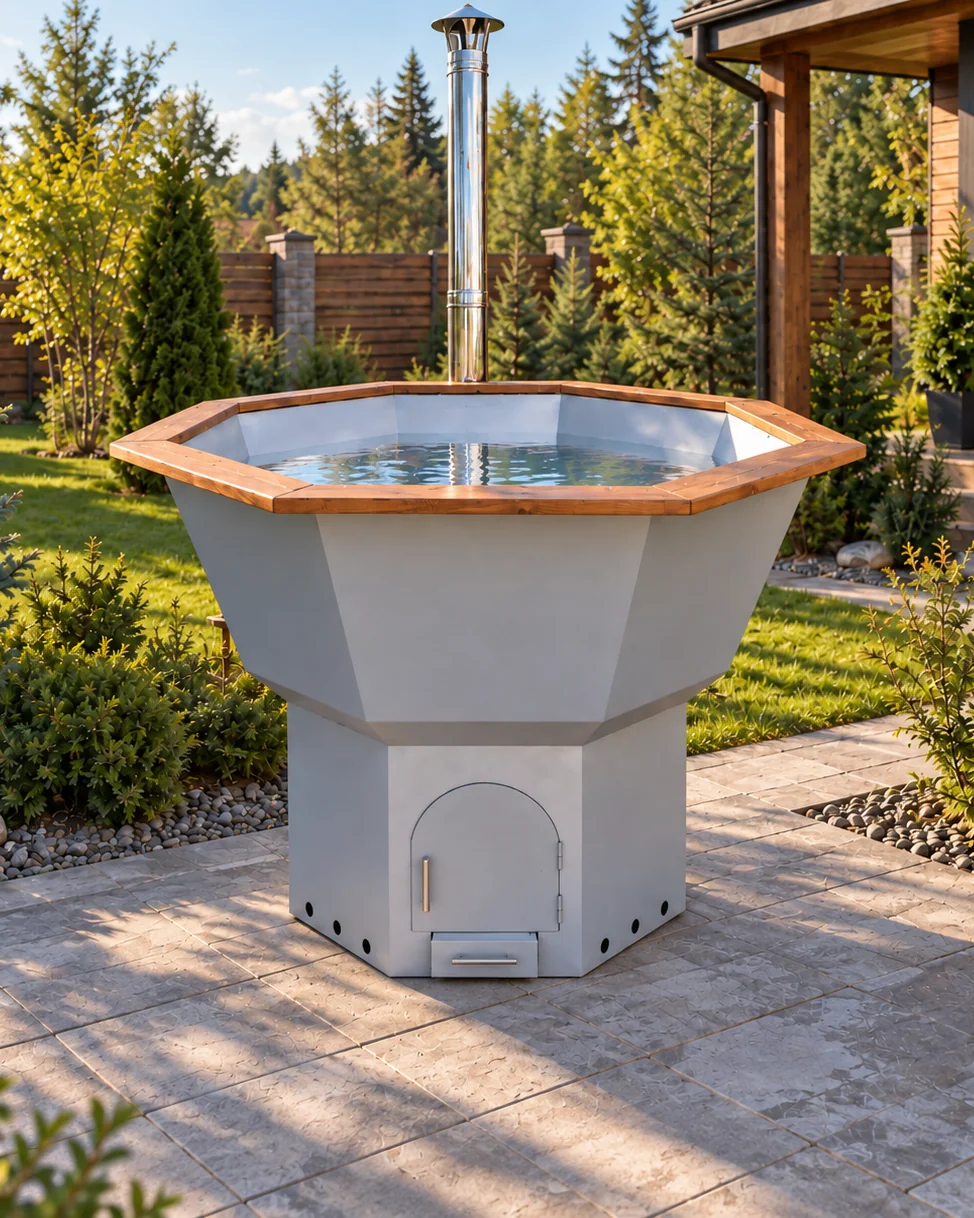
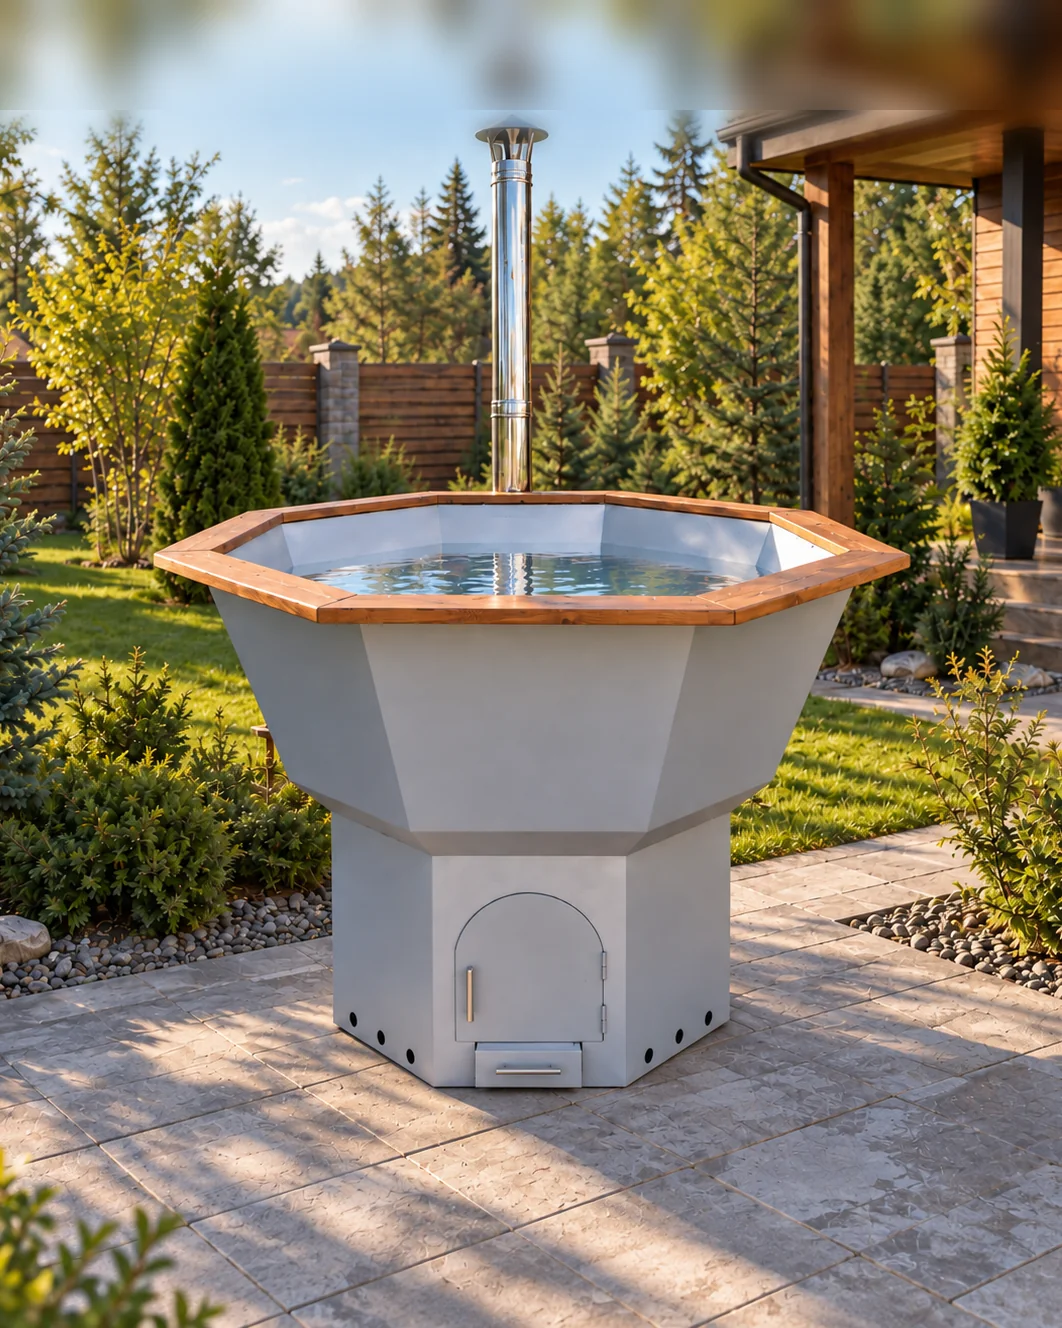
Поставить фото «Нефрита» в модельный ряд и опустить чан Вальцовавича
Нефрит: снимок 2:3 режется до 4:5 по высоте, труба и рама целиком.

Вальцовавич: чан в слайде опущен. Над снимком достроена полоса
расфокусированной кроны (отражённая верхняя кромка, размытая, шов
растушёван), окно расширено — над трубой освободилось место под
название, чан стал чуть меньше.

Claude-Session: https://claude.ai/code/session_01TguMyRvyZftt8ueoPbGrxp

diff --git a/src/data/models.ts b/src/data/models.ts
@@ -249,7 +249,7 @@ export const models: Model[] = [
     bowlShape: 'faceted',
     theme: 'jade',
     badge: 'Хит продаж',
-    photos: { card: 'nefrit-card.webp', cardTop: '#efeff1', hero: 'nefrit-hero.webp', heroWidth: 0.5, heroTone: '#3f4148' },
+    photos: { banner: 'nefrit-banner.webp', card: 'nefrit-card.webp', cardTop: '#efeff1', hero: 'nefrit-hero.webp', heroWidth: 0.5, heroTone: '#3f4148' },
     offers: [
       { cm: 175, price: 187000 },
       { cm: 210, price: 195990 },
